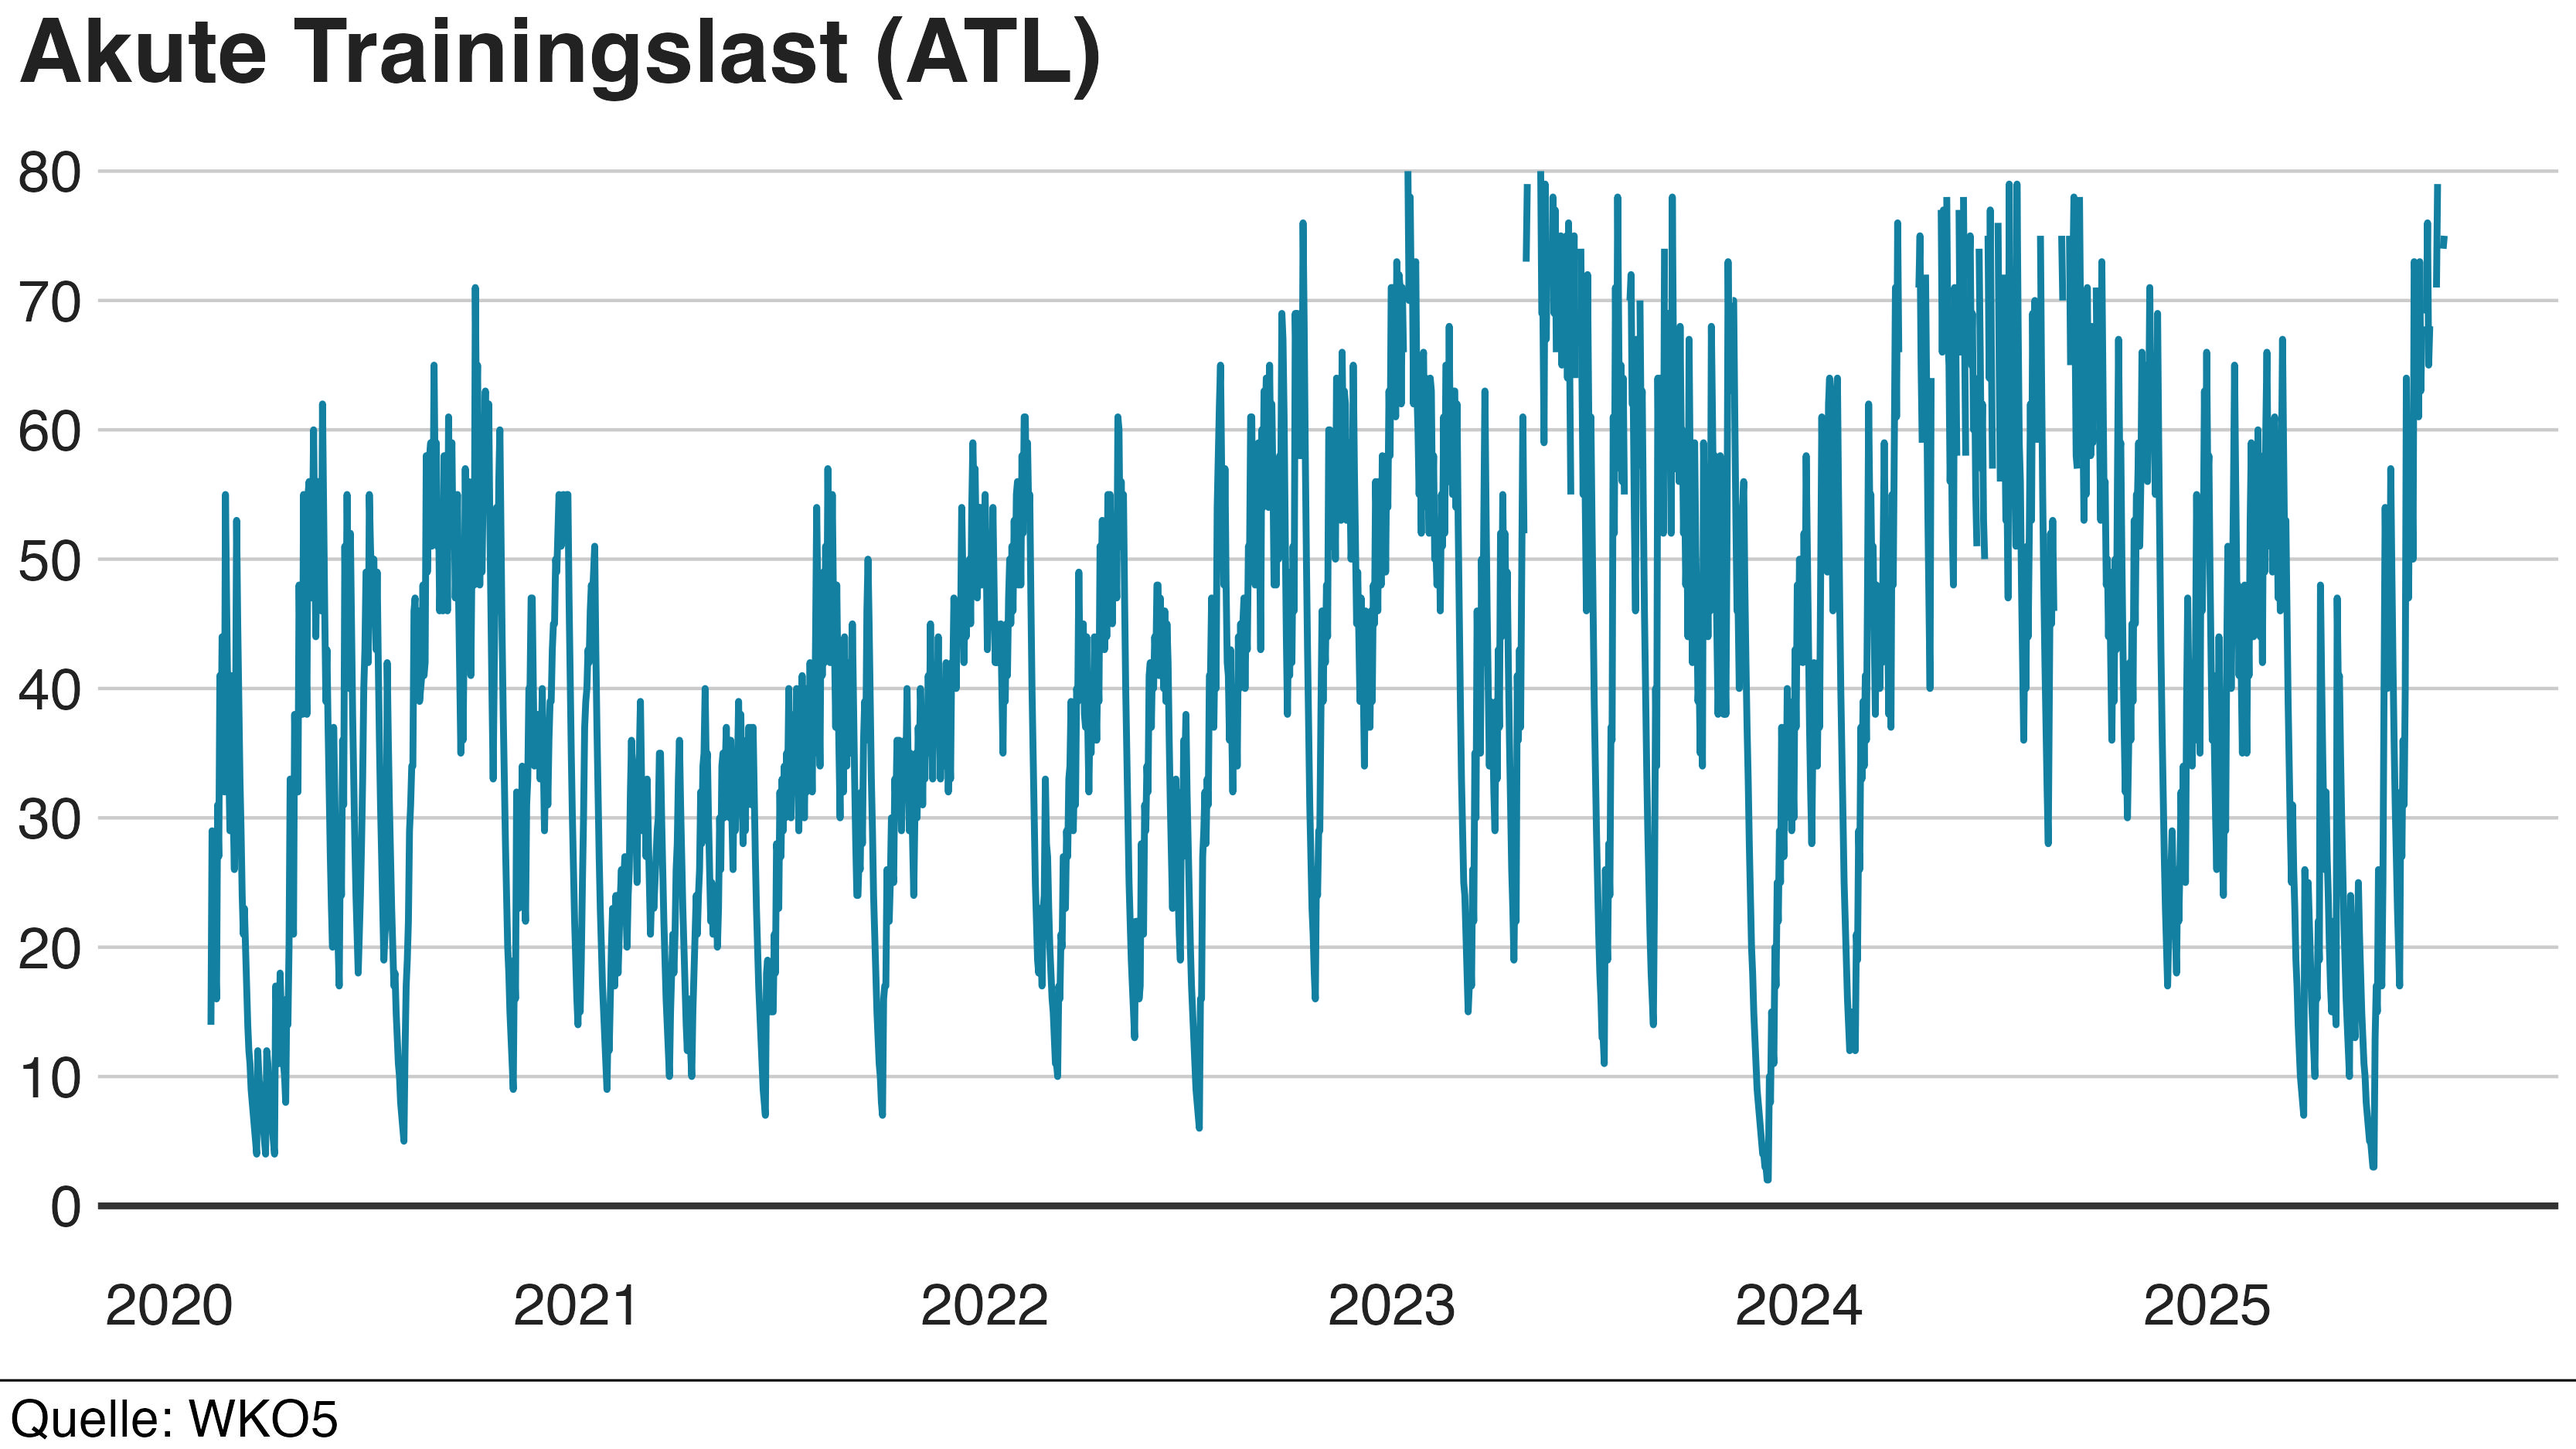
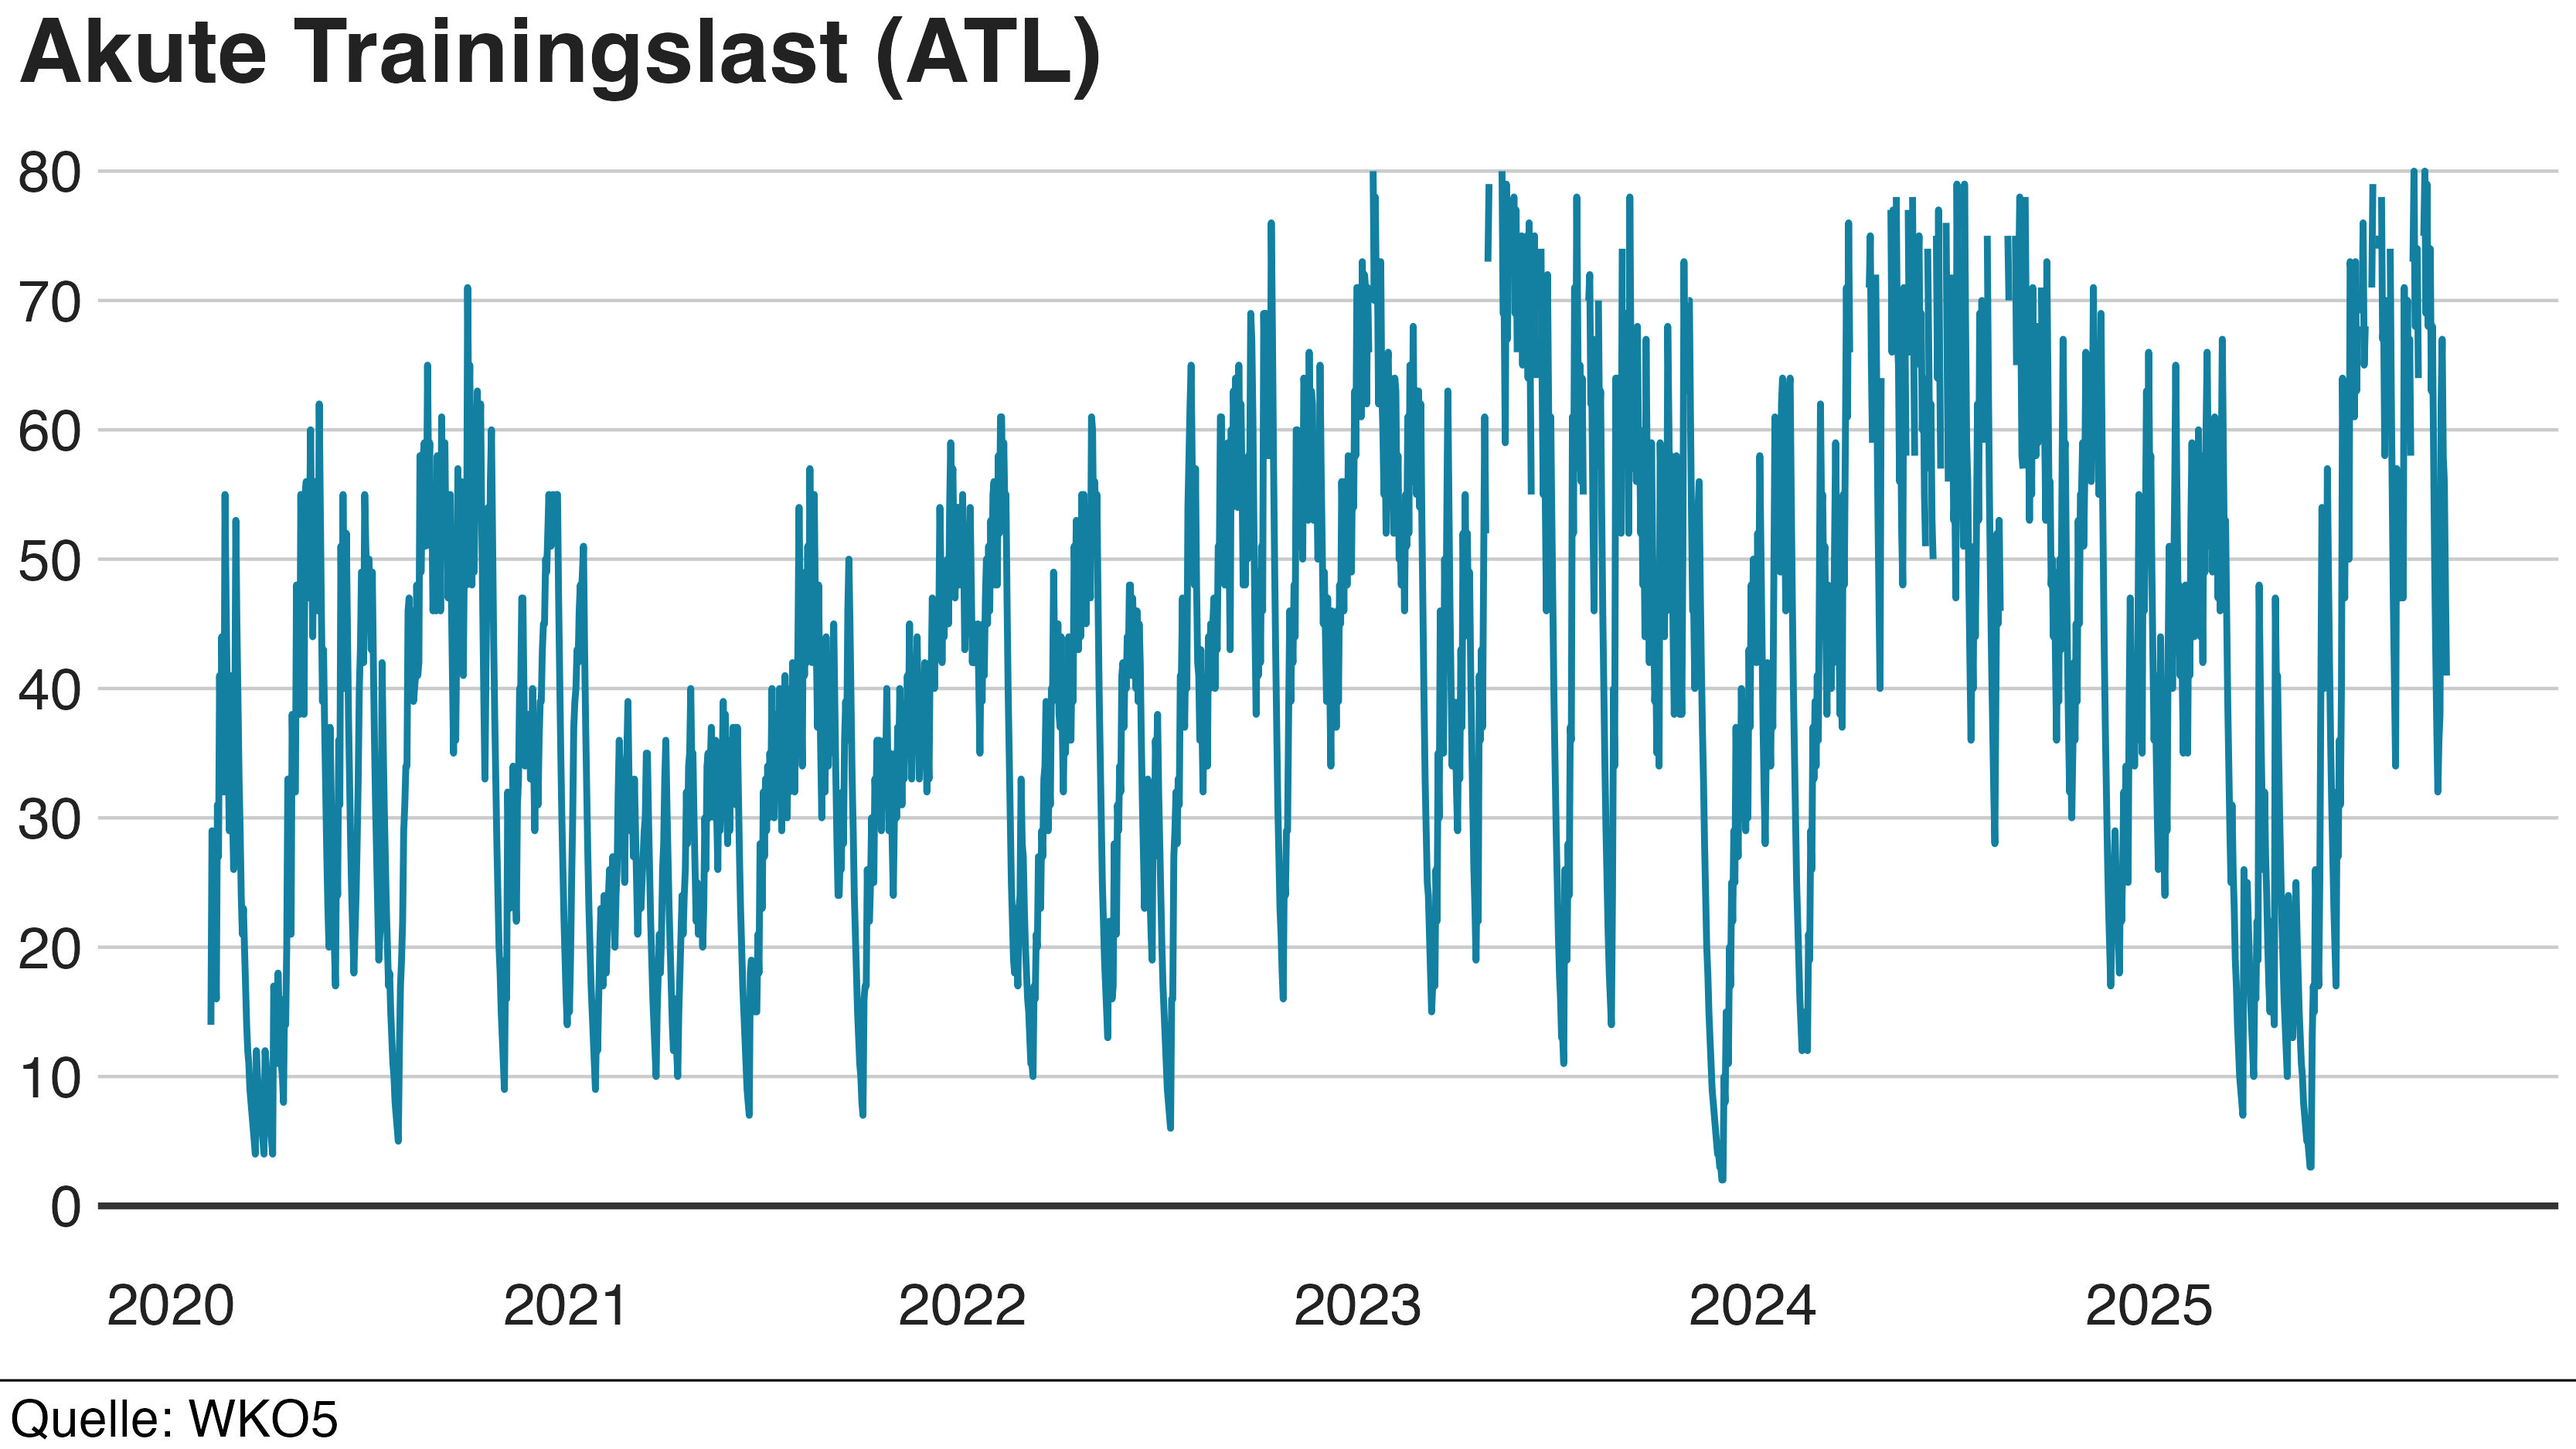
Add September training load data

diff --git a/docs/trainingload.md b/docs/trainingload.md
@@ -27,7 +27,7 @@ Schnitt.
 | 2022 | 364 | 6,97 | 15 427 | 296 | 41 |
 | 2023 | 323 | 6,20 | 18 271 | 350 | 52 |
 | 2024 | 370 | 7,08 | 21 071 | 403 | 56 |
-| 2025 | 189 | 5,32 | 10 614 | 298 | 41 |
+| 2025 | 212 | 5,41 | 12 110 | 308 | 43 |
 
 ## Verlauf der chronischen Trainingslast
 
